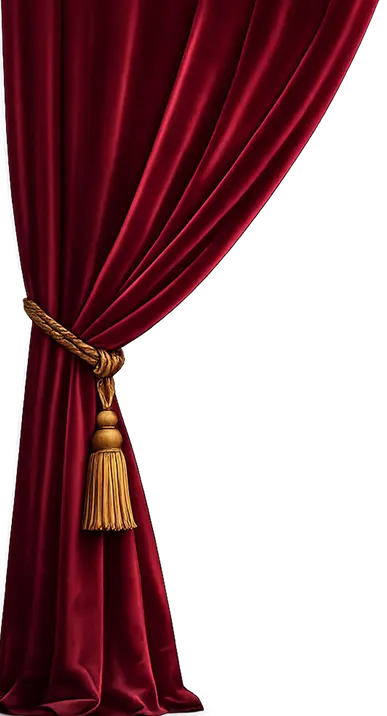
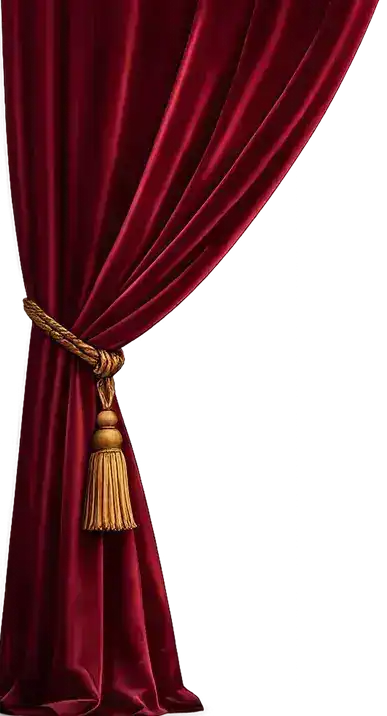
fix for github pages

diff --git a/pages/infos-pratiques.html b/pages/infos-pratiques.html
@@ -288,8 +288,19 @@
                 </div>
             </div>
         </footer>
-
+        <div class="cookies" id="cookies-banner">
+            <p class="cookies__text">
+                Nous utilisons des cookies pour améliorer votre expérience.
+                <a href="mentions-legales.html" class="cookies__link">En savoir plus</a>
+            </p>
+            <div class="cookies__btns">
+                <button class="cookies__btn cookies__btn--accept" id="cookies-accept">Accepter</button>
+                <button class="cookies__btn cookies__btn--refuse" id="cookies-refuse">Refuser</button>
+            </div>
+        </div>
         <script src="https://unpkg.com/@phosphor-icons/web"></script>
+
+        <script src="../src/js/cookies.js"></script>
         <script src="../src/js/burger.js"></script>
         <script src="../src/js/info-bubble.js"></script>
     </body>

diff --git a/pages/programmation.html b/pages/programmation.html
@@ -171,8 +171,19 @@
                 </div>
             </div>
         </footer>
+        <div class="cookies" id="cookies-banner">
+            <p class="cookies__text">
+                Nous utilisons des cookies pour améliorer votre expérience.
+                <a href="mentions-legales.html" class="cookies__link">En savoir plus</a>
+            </p>
+            <div class="cookies__btns">
+                <button class="cookies__btn cookies__btn--accept" id="cookies-accept">Accepter</button>
+                <button class="cookies__btn cookies__btn--refuse" id="cookies-refuse">Refuser</button>
+            </div>
+        </div>
 
         <script src="https://unpkg.com/@phosphor-icons/web"></script>
+        <script src="../src/js/cookies.js"></script>
         <script src="../src/js/burger.js"></script>
         <script src="../src/js/programmation.js"></script>
     </body>

diff --git a/src/js/main.js b/src/js/main.js
@@ -1,9 +1,12 @@
 const cardsShows = async () => {
     try {
         // ? Fetch spectacles data from JSON file ?
-        const response = await fetch("casrc/data/spectacles.json");
+
+        const response = await fetch("src/data/spectacles.json");
+
         // ? Convert response to JSON format ?
         const data = await response.json();
+
         // ? Get the shows grid container from the DOM ?
         const grid = document.getElementById("shows-grid");
 
@@ -11,7 +14,9 @@ const cardsShows = async () => {
         data.spectacles.slice(0, 3).forEach((n) => {
             // ? Calculate remaining places and sold out status ?
             const placesRestantes = n.places_total - n.places_vendues;
+
             const soldOut = placesRestantes === 0;
+
             // ? Calculate fill percentage for progress bar ?
             const pct = Math.round((n.places_vendues / n.places_total) * 100);
 
@@ -54,7 +59,7 @@ const cardsShows = async () => {
             toggle.addEventListener("click", () => {
                 const isOpen = desc.style.display === "block";
                 desc.style.display = isOpen ? "none" : "block";
-                toggle.textContent = isOpen ? "En savoir +" : "Fermer −";
+                toggle.textContent = isOpen ? "En savoir +" : "Fermer -";
                 toggle.setAttribute("aria-expanded", !isOpen);
             });
 

diff --git a/src/scss/components/_cookies.scss b/src/scss/components/_cookies.scss
@@ -29,9 +29,7 @@
 
     &__link {
         color: $color-secondary;
-        &:hover {
-            text-decoration: underline;
-        }
+        text-decoration: underline;
     }
 
     &__btns {

diff --git a/pages/mentions-legales.html b/pages/mentions-legales.html
@@ -5,7 +5,7 @@
         <meta name="viewport" content="width=device-width, initial-scale=1.0" />
         <meta name="description" content="Mentions légales du site Le Phosphore." />
         <title>Mentions légales — Le Phosphore</title>
-        <link rel="stylesheet" href="https://cdnjs.cloudflare.com/ajax/libs/font-awesome/6.7.2/css/all.min.css" />
+
         <link rel="stylesheet" href="../dist/css/main.min.css" />
     </head>
     <body>
@@ -139,6 +139,7 @@
         </footer>
 
         <script src="https://unpkg.com/@phosphor-icons/web"></script>
+        <script src="https://kit.fontawesome.com/dacfb6171f.js" crossorigin="anonymous"></script>
         <script src="../src/js/burger.js"></script>
     </body>
 </html>

diff --git a/index.html b/index.html
@@ -8,7 +8,6 @@
             content="Le Phosphore, salle de spectacle en centre-ville. Théâtre, stand-up et concerts. Réservez vos places en ligne."
         />
         <title>Page d'Accueil</title>
-
         <link rel="stylesheet" href="https://cdnjs.cloudflare.com/ajax/libs/font-awesome/6.7.2/css/all.min.css" />
         <link rel="stylesheet" href="dist/css/main.min.css" />
     </head>
@@ -249,6 +248,7 @@
         </div>
         <script src="https://unpkg.com/@phosphor-icons/web"></script>
         <script src="https://cdnjs.cloudflare.com/ajax/libs/gsap/3.12.5/gsap.min.js"></script>
+
         <script src="src/js/curtain.js"></script>
         <script src="src/js/cookies.js"></script>
         <script src="src/js/main.js"></script>

diff --git a/src/js/curtain.js b/src/js/curtain.js
@@ -5,7 +5,7 @@ window.addEventListener("load", () => {
 
     // ? Non blocking — pointer-events none during animation ?
     curtain.style.pointerEvents = "none";
-
+    /* global gsap */
     gsap.timeline()
         .to(left, {
             x: "-100%",

diff --git a/src/js/programmation.js b/src/js/programmation.js
@@ -13,7 +13,7 @@ const createCard = (n) => {
 
     const img = document.createElement("img");
     img.className = "card__img";
-    img.src = n.image;
+    img.src = `../${n.image}`;
     img.alt = n.titre;
 
     const card = document.createElement("article");

diff --git a/src/scss/components/_hero.scss b/src/scss/components/_hero.scss
@@ -9,7 +9,7 @@
     @include flex;
     background:
         linear-gradient(rgba($color-info-dark, 0.5), rgba($color-info-dark, 0.5)),
-        url("/src/assets/images/scene_principale.webp") center / cover no-repeat;
+        url("../../src/assets/images/scene_principale.webp") center / cover no-repeat;
 
     .container {
         @include flex($justify: center);